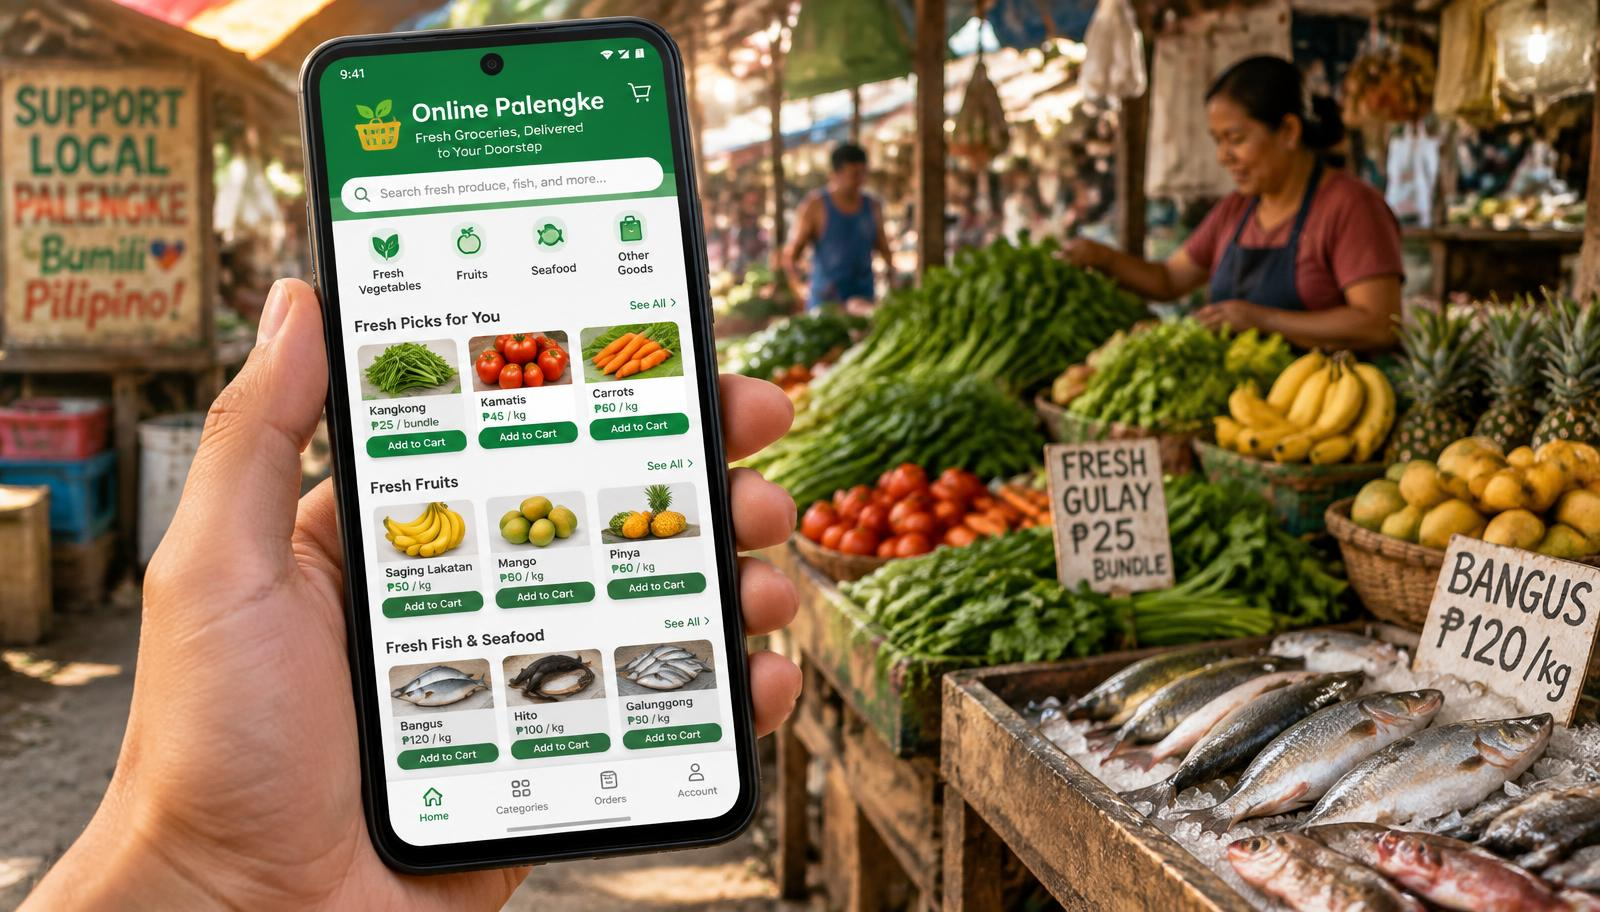
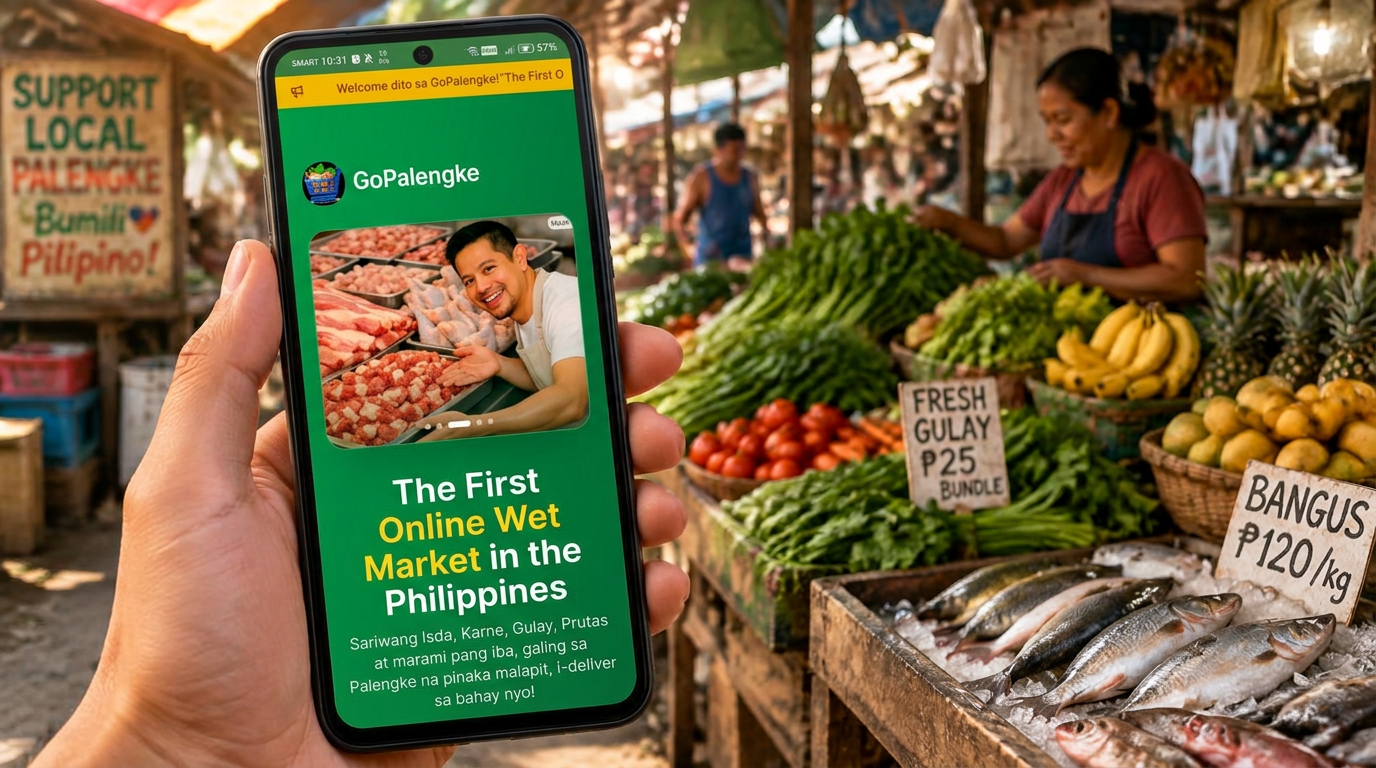
Beta hero: real app screenshot, left-to-right fade

diff --git a/src/routes/beta-tester.tsx b/src/routes/beta-tester.tsx
@@ -71,9 +71,15 @@ function BetaTesterPage() {
           aria-hidden="true"
           width={1600}
           height={912}
-          className="absolute inset-0 h-full w-full scale-110 object-cover blur-[3px]"
+          className="absolute inset-0 h-full w-full object-cover object-right"
         />
-        <div className="absolute inset-0 bg-primary-deep/75" />
+        <img
+          src={heroImg}
+          alt=""
+          aria-hidden="true"
+          className="absolute inset-0 h-full w-full object-cover object-right blur-md [mask-image:linear-gradient(to_right,black_35%,transparent_80%)]"
+        />
+        <div className="absolute inset-0 bg-gradient-to-r from-primary-deep/95 via-primary-deep/75 to-primary-deep/30" />
         <div className="relative mx-auto max-w-3xl px-5 py-14 text-center">
           <span className="inline-block rounded-full bg-primary-foreground/15 px-3 py-1 text-xs font-semibold tracking-wide">
             GOOGLE PLAY CLOSED TESTING
